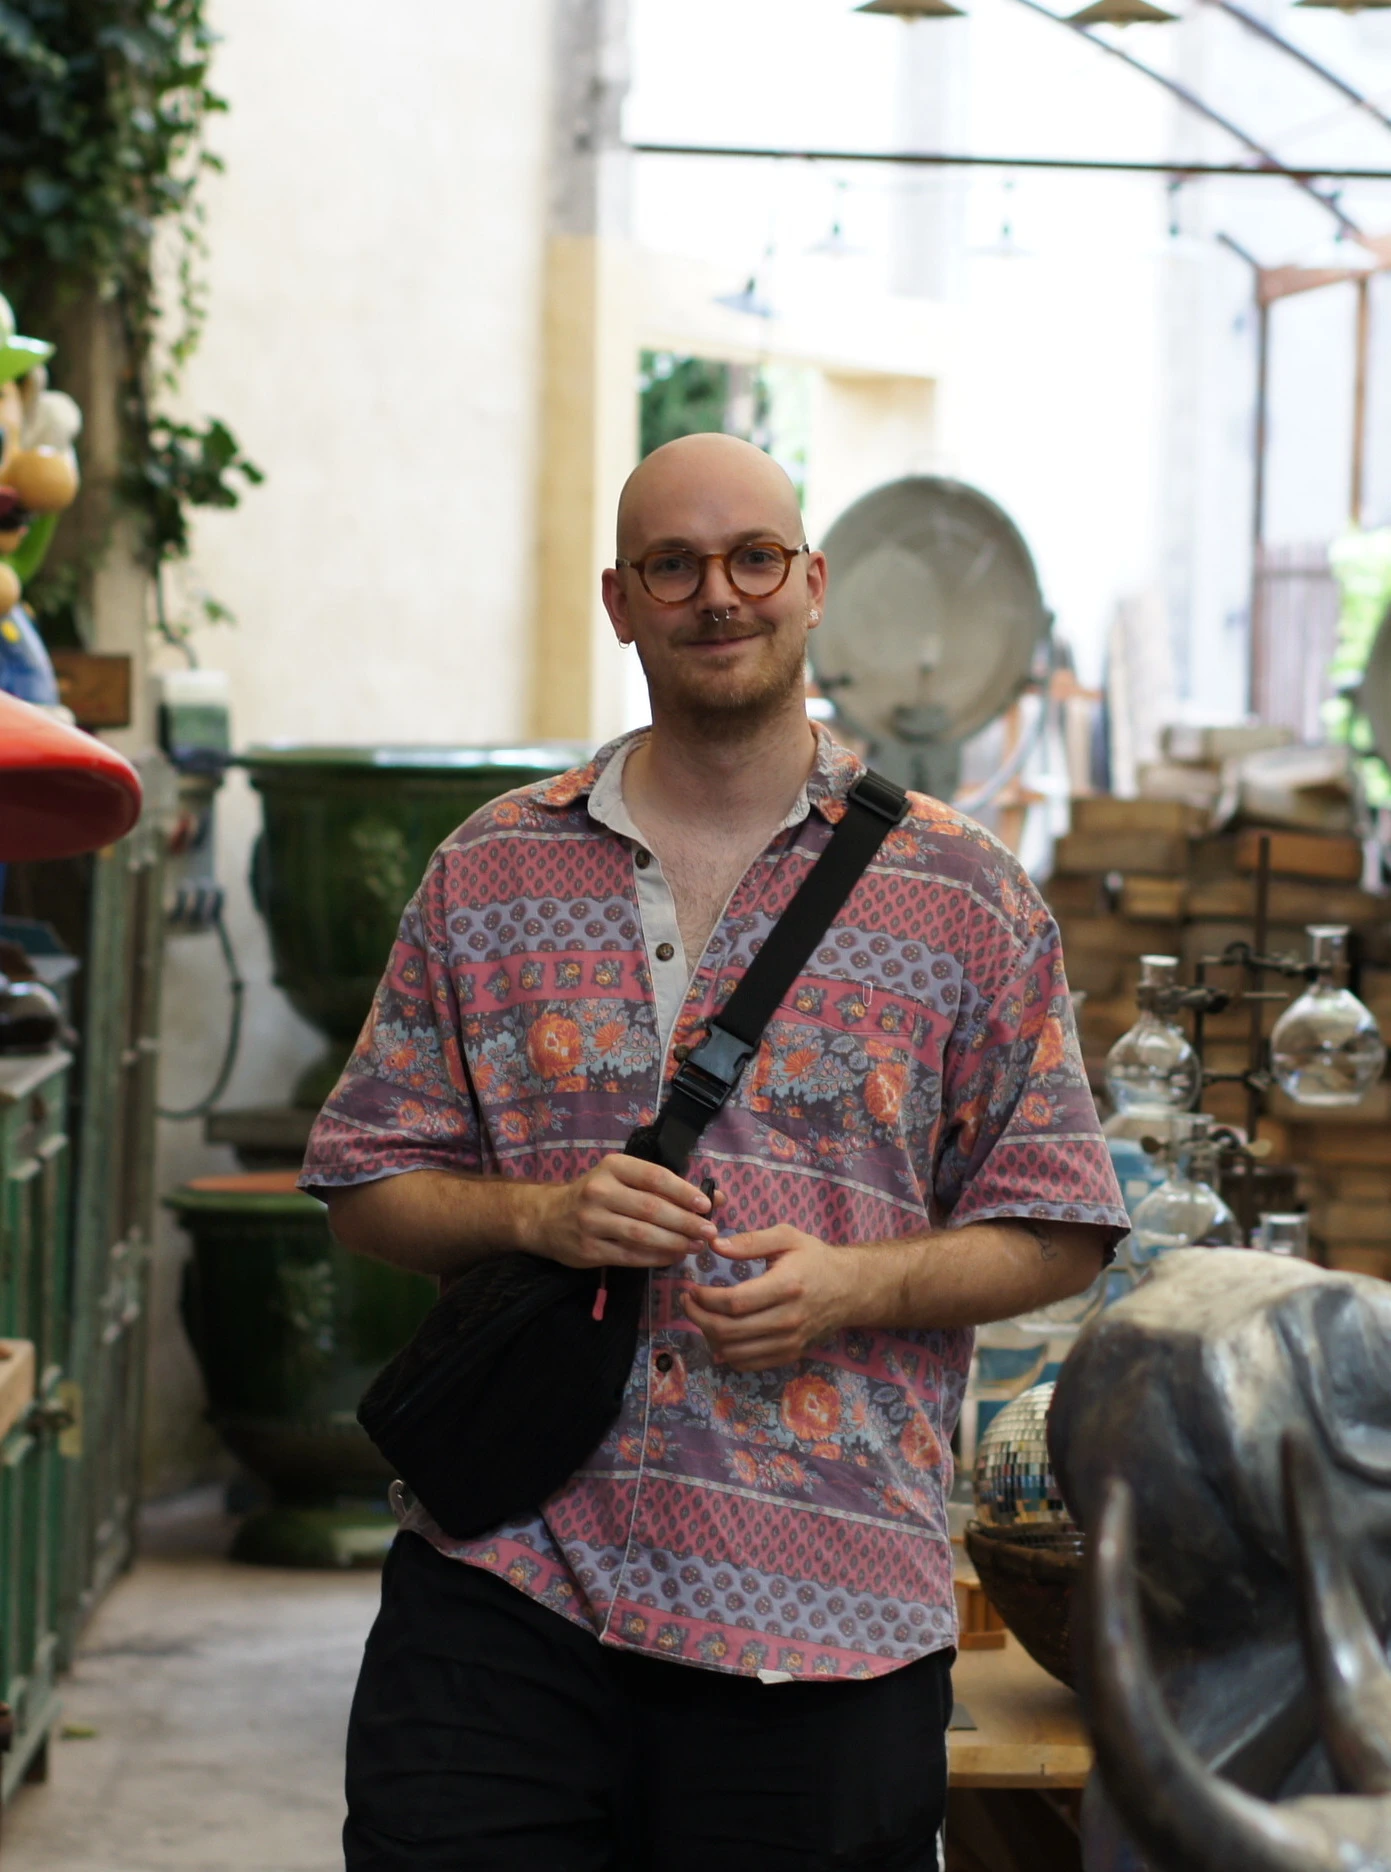
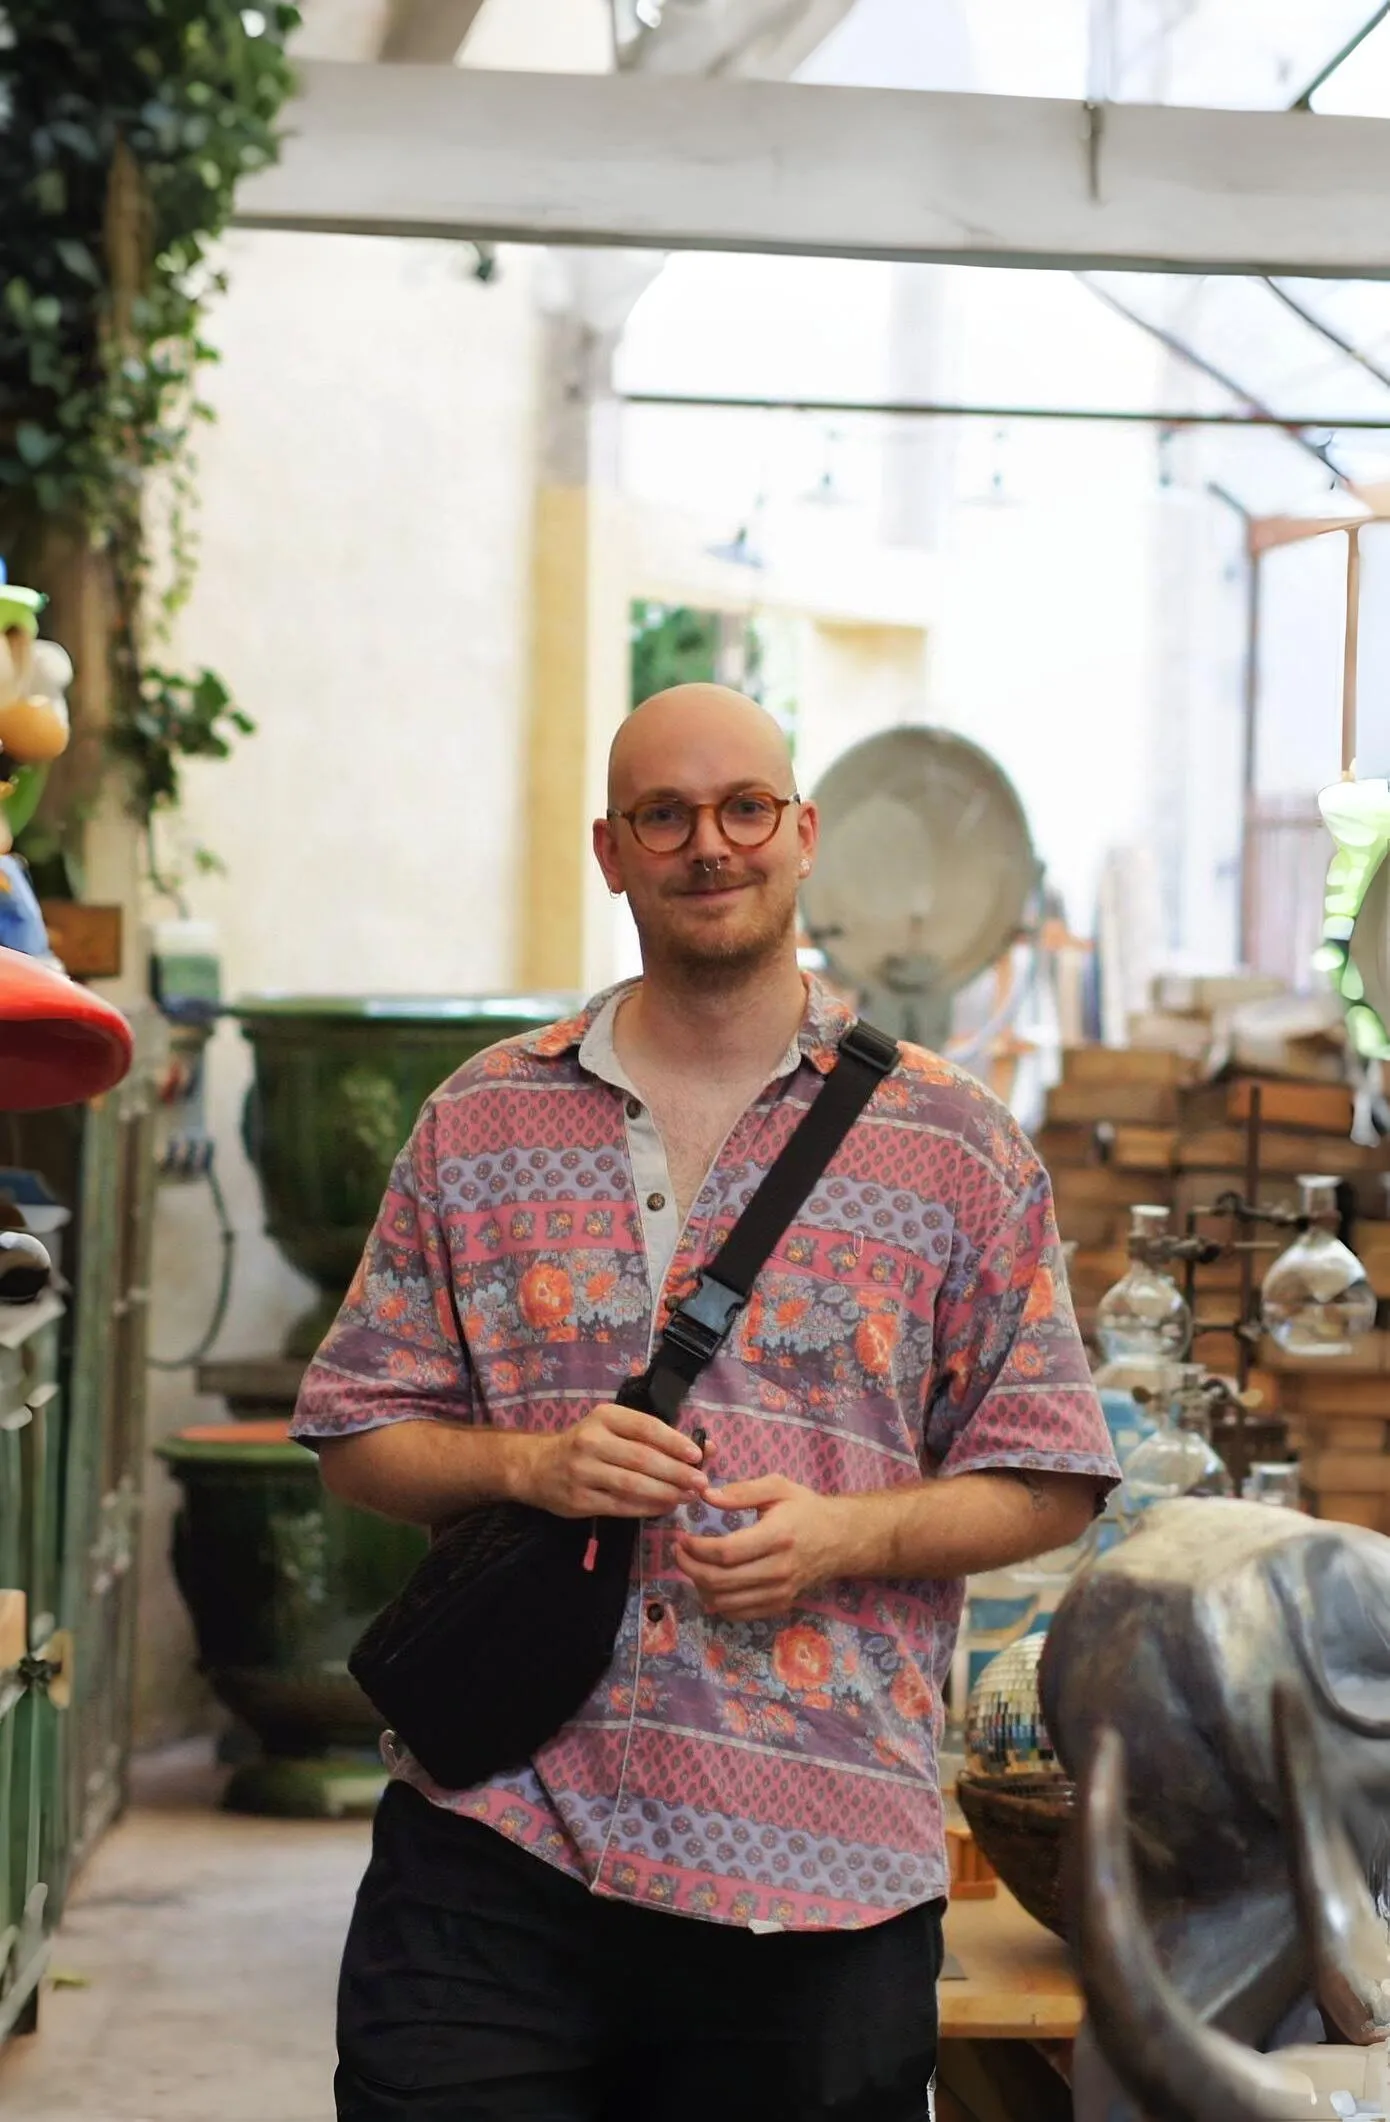
refactor(assets): updated mvl portrait image

diff --git a/src/components/common/PortraitImage.tsx b/src/components/common/PortraitImage.tsx
@@ -17,7 +17,7 @@ export const PortraitImage = () => {
 	const videoOffset = useTransform(
 		scrollYProgress,
 		[0, 1],
-		["calc(var(--spacing) * -20)", "calc(var(--spacing) * 20)"],
+		["calc(var(--spacing) * -24)", "calc(var(--spacing) * 24)"],
 	);
 
 	useEffect(() => {
@@ -44,7 +44,7 @@ export const PortraitImage = () => {
 			>
 				<motion.img
 					style={{ y: videoOffset }}
-					className="-top-40 absolute inset-0 h-[calc(100%+var(--spacing)*32*2)] object-cover"
+					className="-top-48 absolute inset-0 h-[calc(100%+var(--spacing)*32*2)] object-cover"
 					width={mvlPortrait.width}
 					height={mvlPortrait.height}
 					src={mvlPortrait.src}
